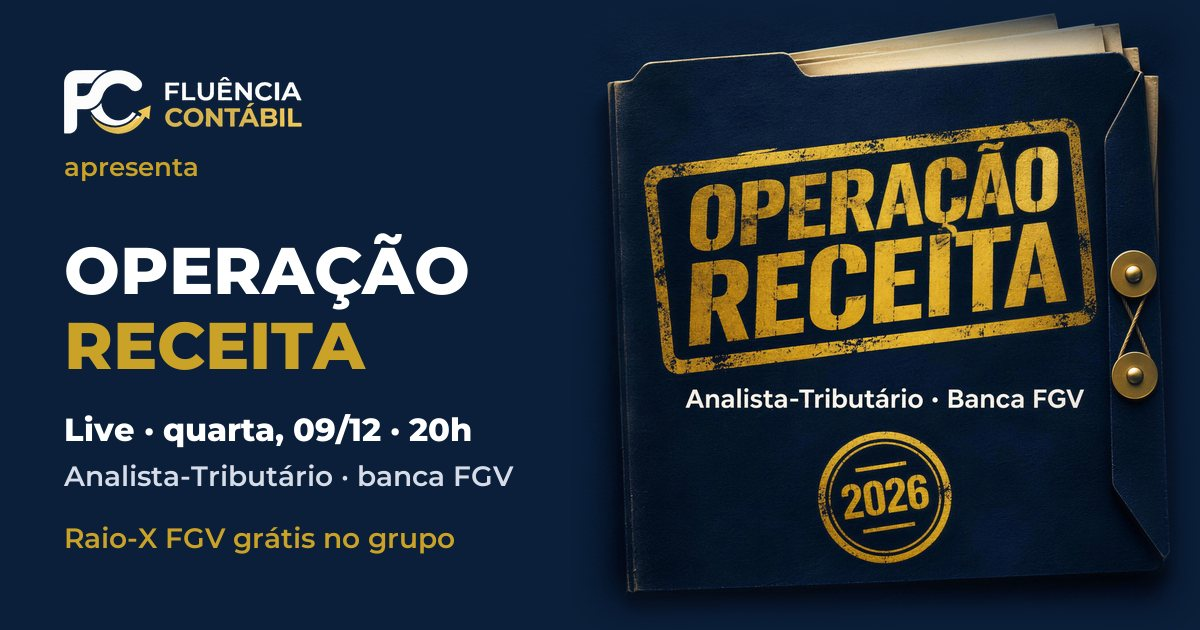
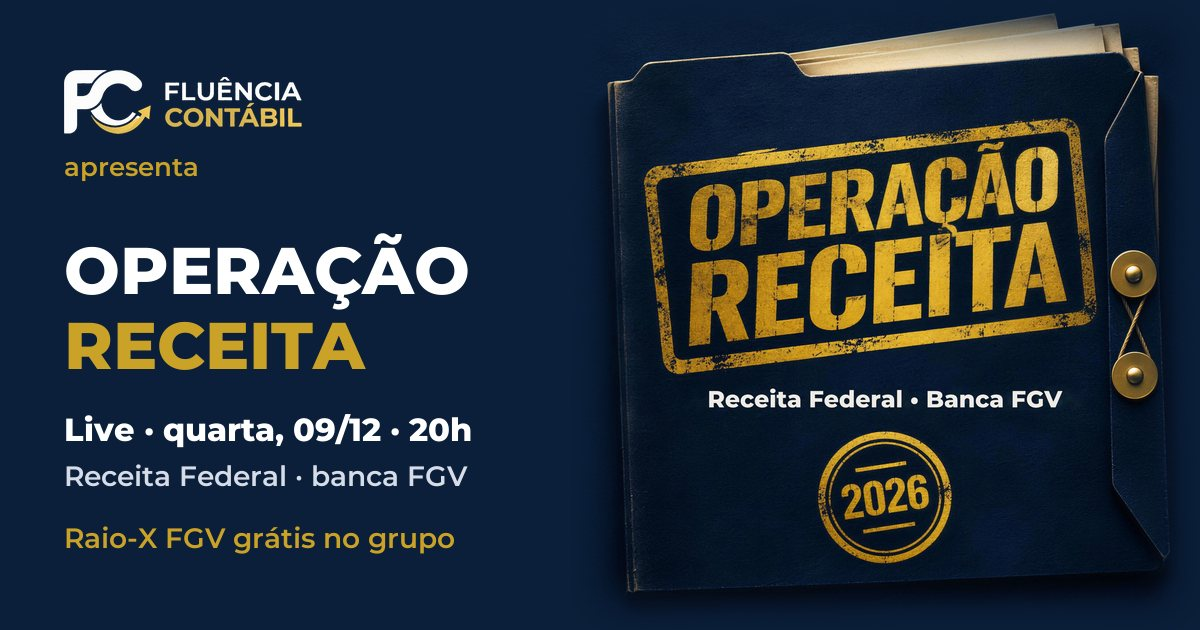
Operação Receita: tira o cargo do topo, da arte, da imagem de compartilhamento e da capa
A campanha serve para Analista-Tributário e para Auditor-Fiscal. O topo da
página passa a falar em "prova da Receita Federal"; a arte do dossiê, a imagem
de compartilhamento (og) e a capa provisória do Raio-X trocam
"Analista-Tributário" por "Receita Federal".

Changed region(s): [[0.0617, 0.7238, 0.4317, 0.7841], [0.555, 0.6032, 0.8942, 0.6635]]

diff --git a/receita-federal.html b/receita-federal.html
@@ -349,7 +349,7 @@ height="0" width="0" style="display:none;visibility:hidden"></iframe></noscript>
           <span class="vid-leg">Por que a FGV muda o seu estudo para a Receita</span></div>
       </div>
       <h1>A FGV vai aplicar a prova da <span class="nw">Receita Federal.</span> <span class="it">Entre na Operação Receita.</span></h1>
-      <p class="sub">Na quarta, 09/12, às 20h, ao vivo, o Prof. Vinícius Ferraz Neves mostra como a FGV cobra Contabilidade e o caminho até a prova de Analista-Tributário. No grupo, você recebe grátis o Raio-X FGV.</p>
+      <p class="sub">Na quarta, 09/12, às 20h, ao vivo, o Prof. Vinícius Ferraz Neves mostra como a FGV cobra Contabilidade e o caminho até a prova da <span class="nw">Receita Federal</span>. No grupo, você recebe grátis o Raio-X FGV.</p>
       <div class="quando"><span><b>Quarta, 09/12</b></span><span><b>20h</b> · ao vivo no YouTube</span><span>Gratuito</span></div>
       <div class="contagem" id="contagem" aria-label="Tempo até a live de 09/12, 20h">
         <div><b id="c-dias">--</b><span>dias</span></div>
